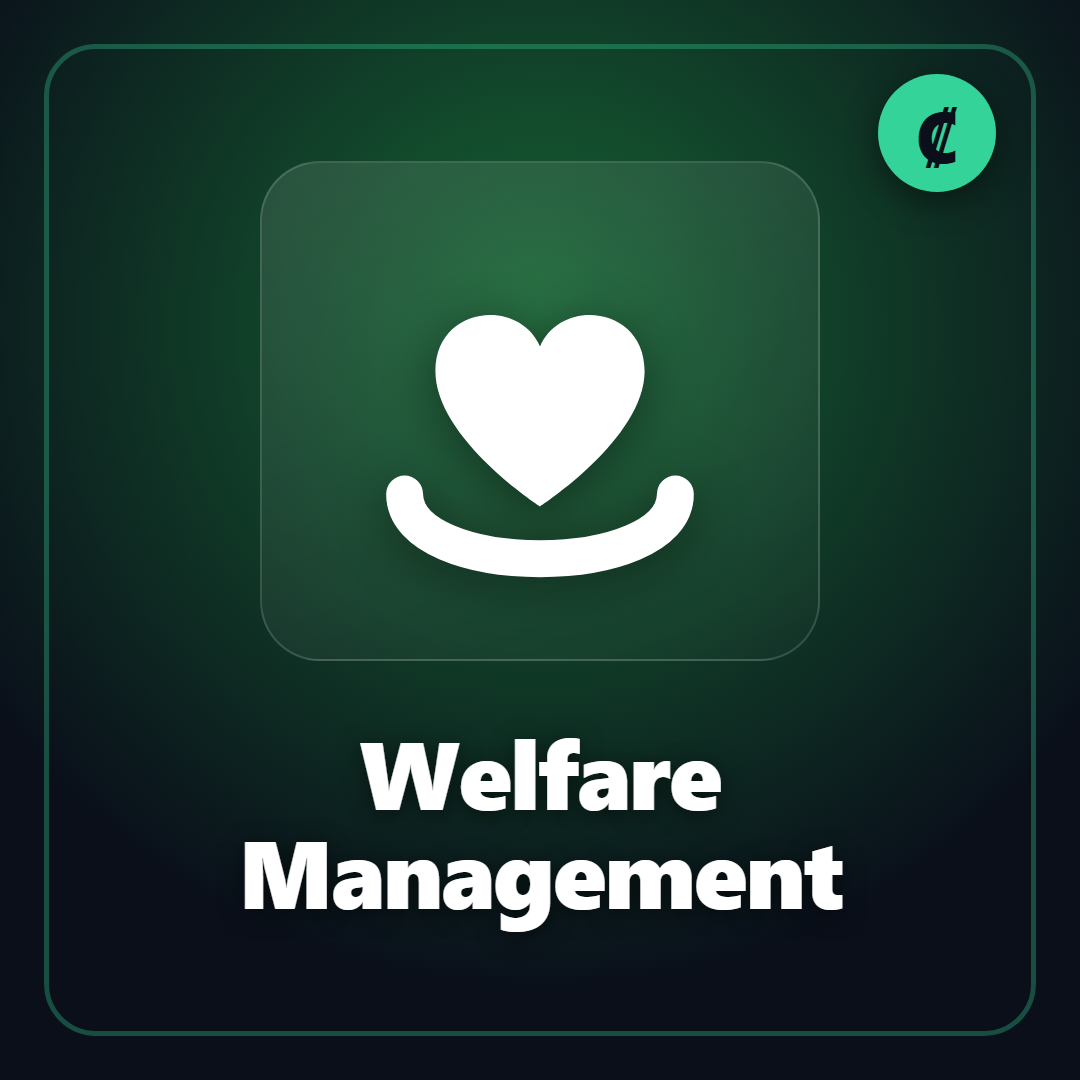
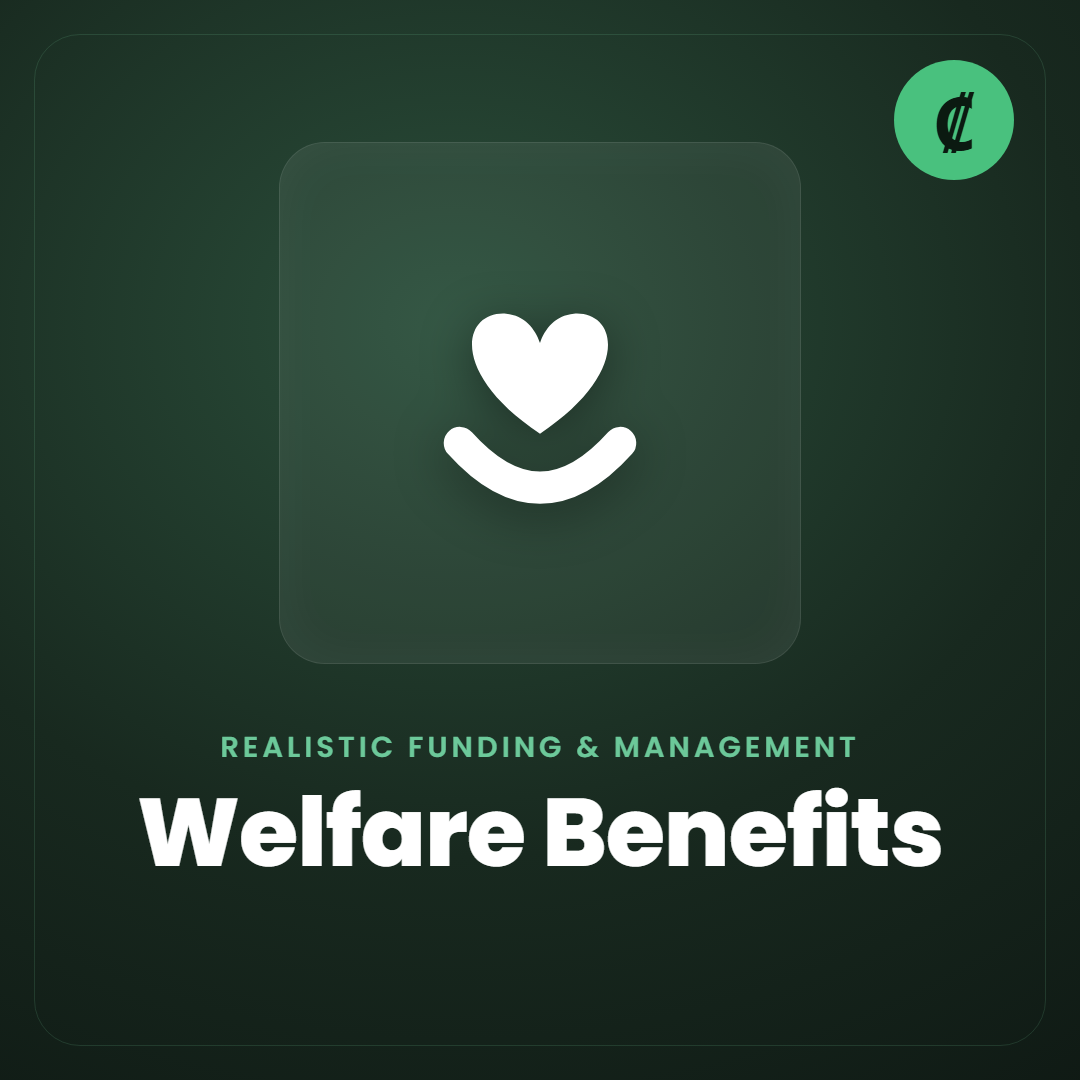
v1.2: rename to 'Realistic Funding & Management: Welfare Benefits' + refreshed thumbnail

diff --git a/UI/src/mods/welfare.tsx b/UI/src/mods/welfare.tsx
@@ -7,7 +7,7 @@ import { useT } from "mods/i18n";
 import { FONT, TEXT, panelTitle, sectionTitle } from "mods/ui-tokens";
 import ICON from "../wm-icon.svg";
 
-// Welfare Management UI — the benefits panel (fund toggle + 3 sliders + welfare-office gate warning), the toolbar
+// Realistic Funding & Management: Welfare Benefits UI — the benefits panel (fund toggle + 3 sliders + welfare-office gate warning), the toolbar
 // button, and the Budget "Citizen Benefits" detail sub-item + hover box.
 const G = "WMParams";
 const TAX_SLIDER_PATH = "game-ui/game/components/economy-panel/taxation-page/tax-slider.tsx";
@@ -109,7 +109,7 @@ const BenefitRow = ({ p, funded }: { p: P; funded: boolean }) => {
 
 export const WelfareButton = () => {
     const t = useT();
-    return <FloatingButton src={ICON} tooltipLabel={t("buttonTooltip", "Welfare Management")} onSelect={() => setOpen(!_open)} />;
+    return <FloatingButton src={ICON} tooltipLabel={t("buttonTooltip", "Realistic Funding & Management: Welfare Benefits")} onSelect={() => setOpen(!_open)} />;
 };
 
 export const WelfarePanelHost = () => {
@@ -128,7 +128,7 @@ export const WelfarePanelHost = () => {
             color: TEXT, boxShadow: "0 4rem 24rem rgba(0,0,0,0.5)",
         }}>
             <div style={{ display: "flex", alignItems: "center", padding: "10rem 14rem", borderBottom: "1rem solid rgba(255,255,255,0.12)" }}>
-                <div style={{ flex: 1, ...panelTitle }}>{t("panelTitle", "WELFARE MANAGEMENT")}</div>
+                <div style={{ flex: 1, ...panelTitle }}>{t("panelTitle", "Welfare Benefits")}</div>
                 <CloseGlyph onClick={() => setOpen(false)} />
             </div>
             <div style={{ padding: "8rem 0 10rem", maxHeight: "860rem", overflowY: "auto" }}>

diff --git a/Mod.cs b/Mod.cs
@@ -44,7 +44,7 @@ namespace WelfareManagement
             // UI bridge — the benefits panel + budget breakdown.
             updateSystem.UpdateAt<WelfareUISystem>(SystemUpdatePhase.UIUpdate);
 
-            log.Info("Welfare Management loaded.");
+            log.Info("Realistic Funding & Management: Welfare Benefits loaded.");
         }
 
         public void OnDispose()

diff --git a/Translations.cs b/Translations.cs
@@ -10,7 +10,7 @@ namespace WelfareManagement
 
         public static readonly Dictionary<string, string> En = new Dictionary<string, string>
         {
-            { "mod.name", "Welfare Management" },
+            { "mod.name", "Realistic Funding & Management: Welfare Benefits" },
             { "tab.main", "Main" },
             { "group.benefits", "Citizen benefits" },
             { "group.general", "General" },